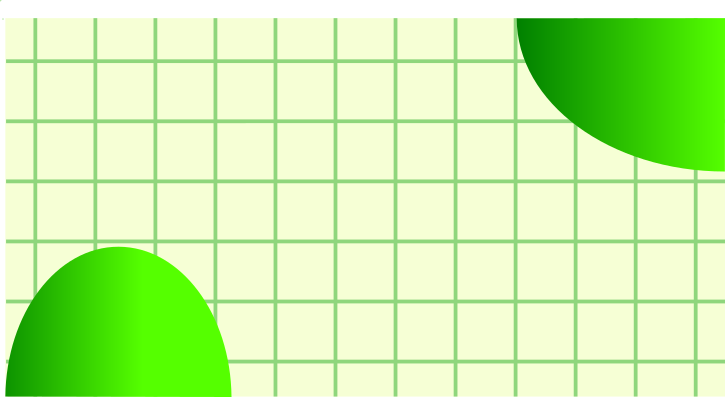
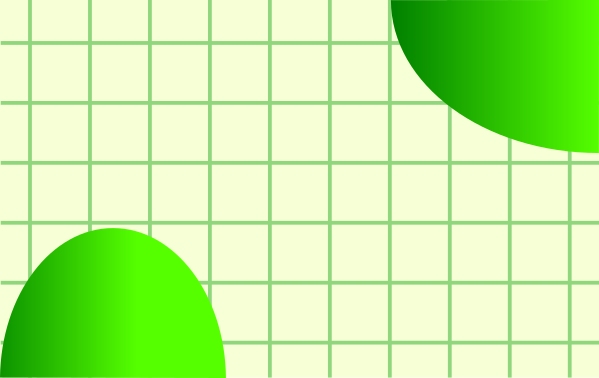
cambios en modal de deafío

Changed region(s): [[0.0, 0.0, 1.0, 1.0]]

diff --git a/js/dibujo.js b/js/dibujo.js
@@ -5,7 +5,7 @@ import {
 } from './juego.js';
 import {
     POSICIONES_CASILLAS, ALTO_BARRA_SUP, ALTO_BARRA_INF,
-    MAX_JUGADORES, COLORES_JUGADORES, DURACION_MENSAJE_MS, 
+    MAX_JUGADORES, COLORES_JUGADORES, DURACION_MENSAJE_MS, RELACION_FONDO,
 } from './config.js';
 
 function medirTexto(ctx, texto, fuente) {
@@ -455,8 +455,8 @@ Juego.prototype.dibujarDesafio = function() {
     ctx.fillRect(0, 0, this.anchoPantalla, this.altoPantalla);
 
     // Dimensiones de la tarjeta (2:1 para no deformar fondo.png)
-    const anchoModal = Math.floor(800 * esc);
-    const altoModal  = Math.floor(400 * esc);
+    const anchoModal = Math.floor(600 * esc);
+    const altoModal  = Math.floor(anchoModal / RELACION_FONDO);
     const xModal = Math.floor((this.anchoPantalla - anchoModal) / 2);
     const yModal = Math.floor((this.altoPantalla  - altoModal ) / 2);
 
@@ -472,7 +472,7 @@ Juego.prototype.dibujarDesafio = function() {
     }
 
     // 2) Rectángulo blanco centrado: 60% del ancho de la tarjeta
-    const anchoRect = Math.floor(anchoModal * 0.6);
+    const anchoRect = Math.floor(anchoModal * 0.8);
     const altoRect  = Math.floor(altoModal  * 0.7);
     const xRect = xModal + Math.floor((anchoModal - anchoRect) / 2);
     const yRect = yModal + Math.floor((altoModal  - altoRect ) / 2);
@@ -497,7 +497,7 @@ Juego.prototype.dibujarDesafio = function() {
     const etiqueta = this.desafioEsEspecial ? "Desafío especial para" : "Desafío para";
     dibujarTexto(ctx, `${etiqueta} ${jugador.nombre}`,
                  this.anchoPantalla / 2,
-                 yModal - Math.floor(20 * esc),
+                 yModal - Math.floor(45 * esc),
                  fuenteJug, jugador.color, true);
 
     // 3) Pregunta dentro del rectángulo blanco (en negro)

diff --git a/js/juego.js b/js/juego.js
@@ -109,7 +109,7 @@ export class Juego {
         this.tamanoFuenteGrande = 48;
         this.tamanoFuenteInput = 28;
         this.tamanoFuenteChica = 16;
-        this.tamanoFuentePregunta = 32;
+        this.tamanoFuentePregunta = 40;
 
         // Botones
         this.botones = [];
@@ -229,7 +229,7 @@ export class Juego {
         this.tamanoFuenteGrande  = Math.max(16, Math.floor(42 * this.escala));
         this.tamanoFuenteInput   = Math.max(14, Math.floor(28 * this.escala));
         this.tamanoFuenteChica   = Math.max(10, Math.floor(16 * this.escala));
-        this.tamanoFuentePregunta= Math.max(16, Math.floor(32 * this.escala));
+        this.tamanoFuentePregunta= Math.max(16, Math.floor(40 * this.escala));
 
         // Calcular espacio disponible para el tablero
         if (this.imgTableroOriginal) {
@@ -359,7 +359,7 @@ export class Juego {
         //this.botones.push(this.botonLanzar);
 
         // --- Botones V/F del desafío (por fuera de la tarjeta, debajo) ---
-        const anchoModal = Math.floor(800 * esc);
+        const anchoModal = Math.floor(600 * esc);
         const altoModal  = Math.floor(400 * esc);
         const xModal = Math.floor((this.anchoPantalla - anchoModal) / 2);
         const yModal = Math.floor((this.altoPantalla  - altoModal ) / 2);

diff --git a/js/config.js b/js/config.js
@@ -8,6 +8,8 @@ export const ALTO_PANTALLA  = 750;
 export const ALTO_BARRA_SUP = 80;
 export const ALTO_BARRA_INF = 100;
 
+export const RELACION_FONDO = 600 / 375;   // ancho / alto de fondo.png
+
 // 42 posiciones: [0] = SALIDA, [1..40] = casillas, [41] = LLEGADA
 export const POSICIONES_CASILLAS = [
     { x: 796,  y: 756  },  // 0  SALIDA
